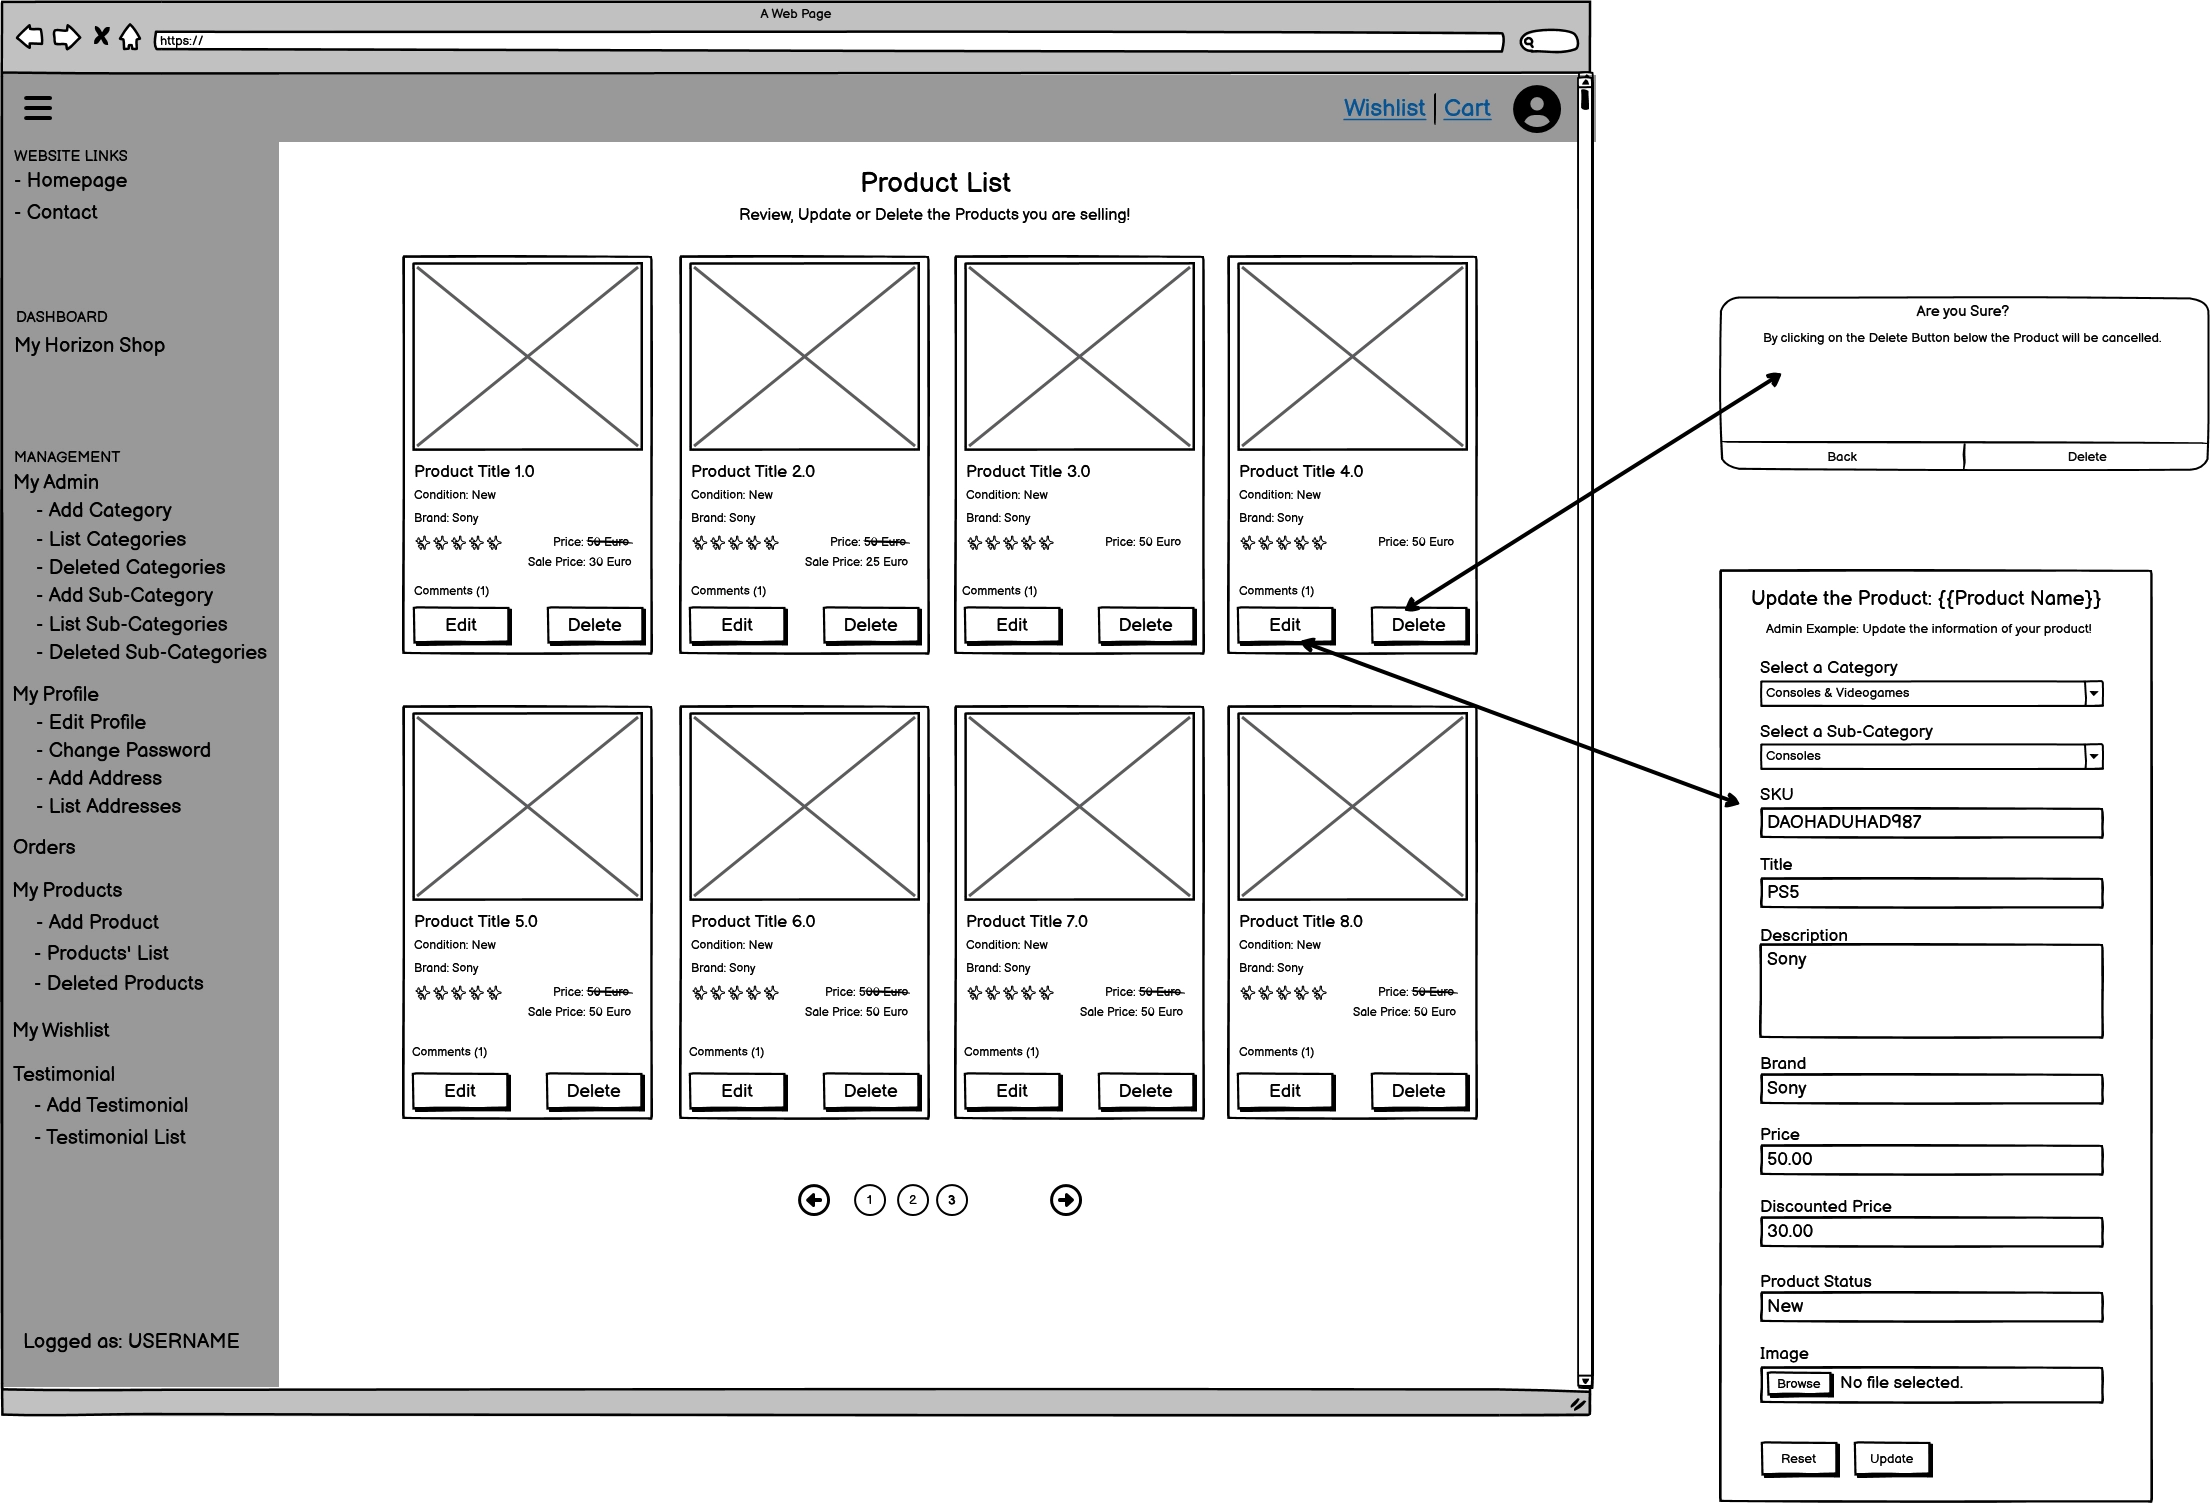
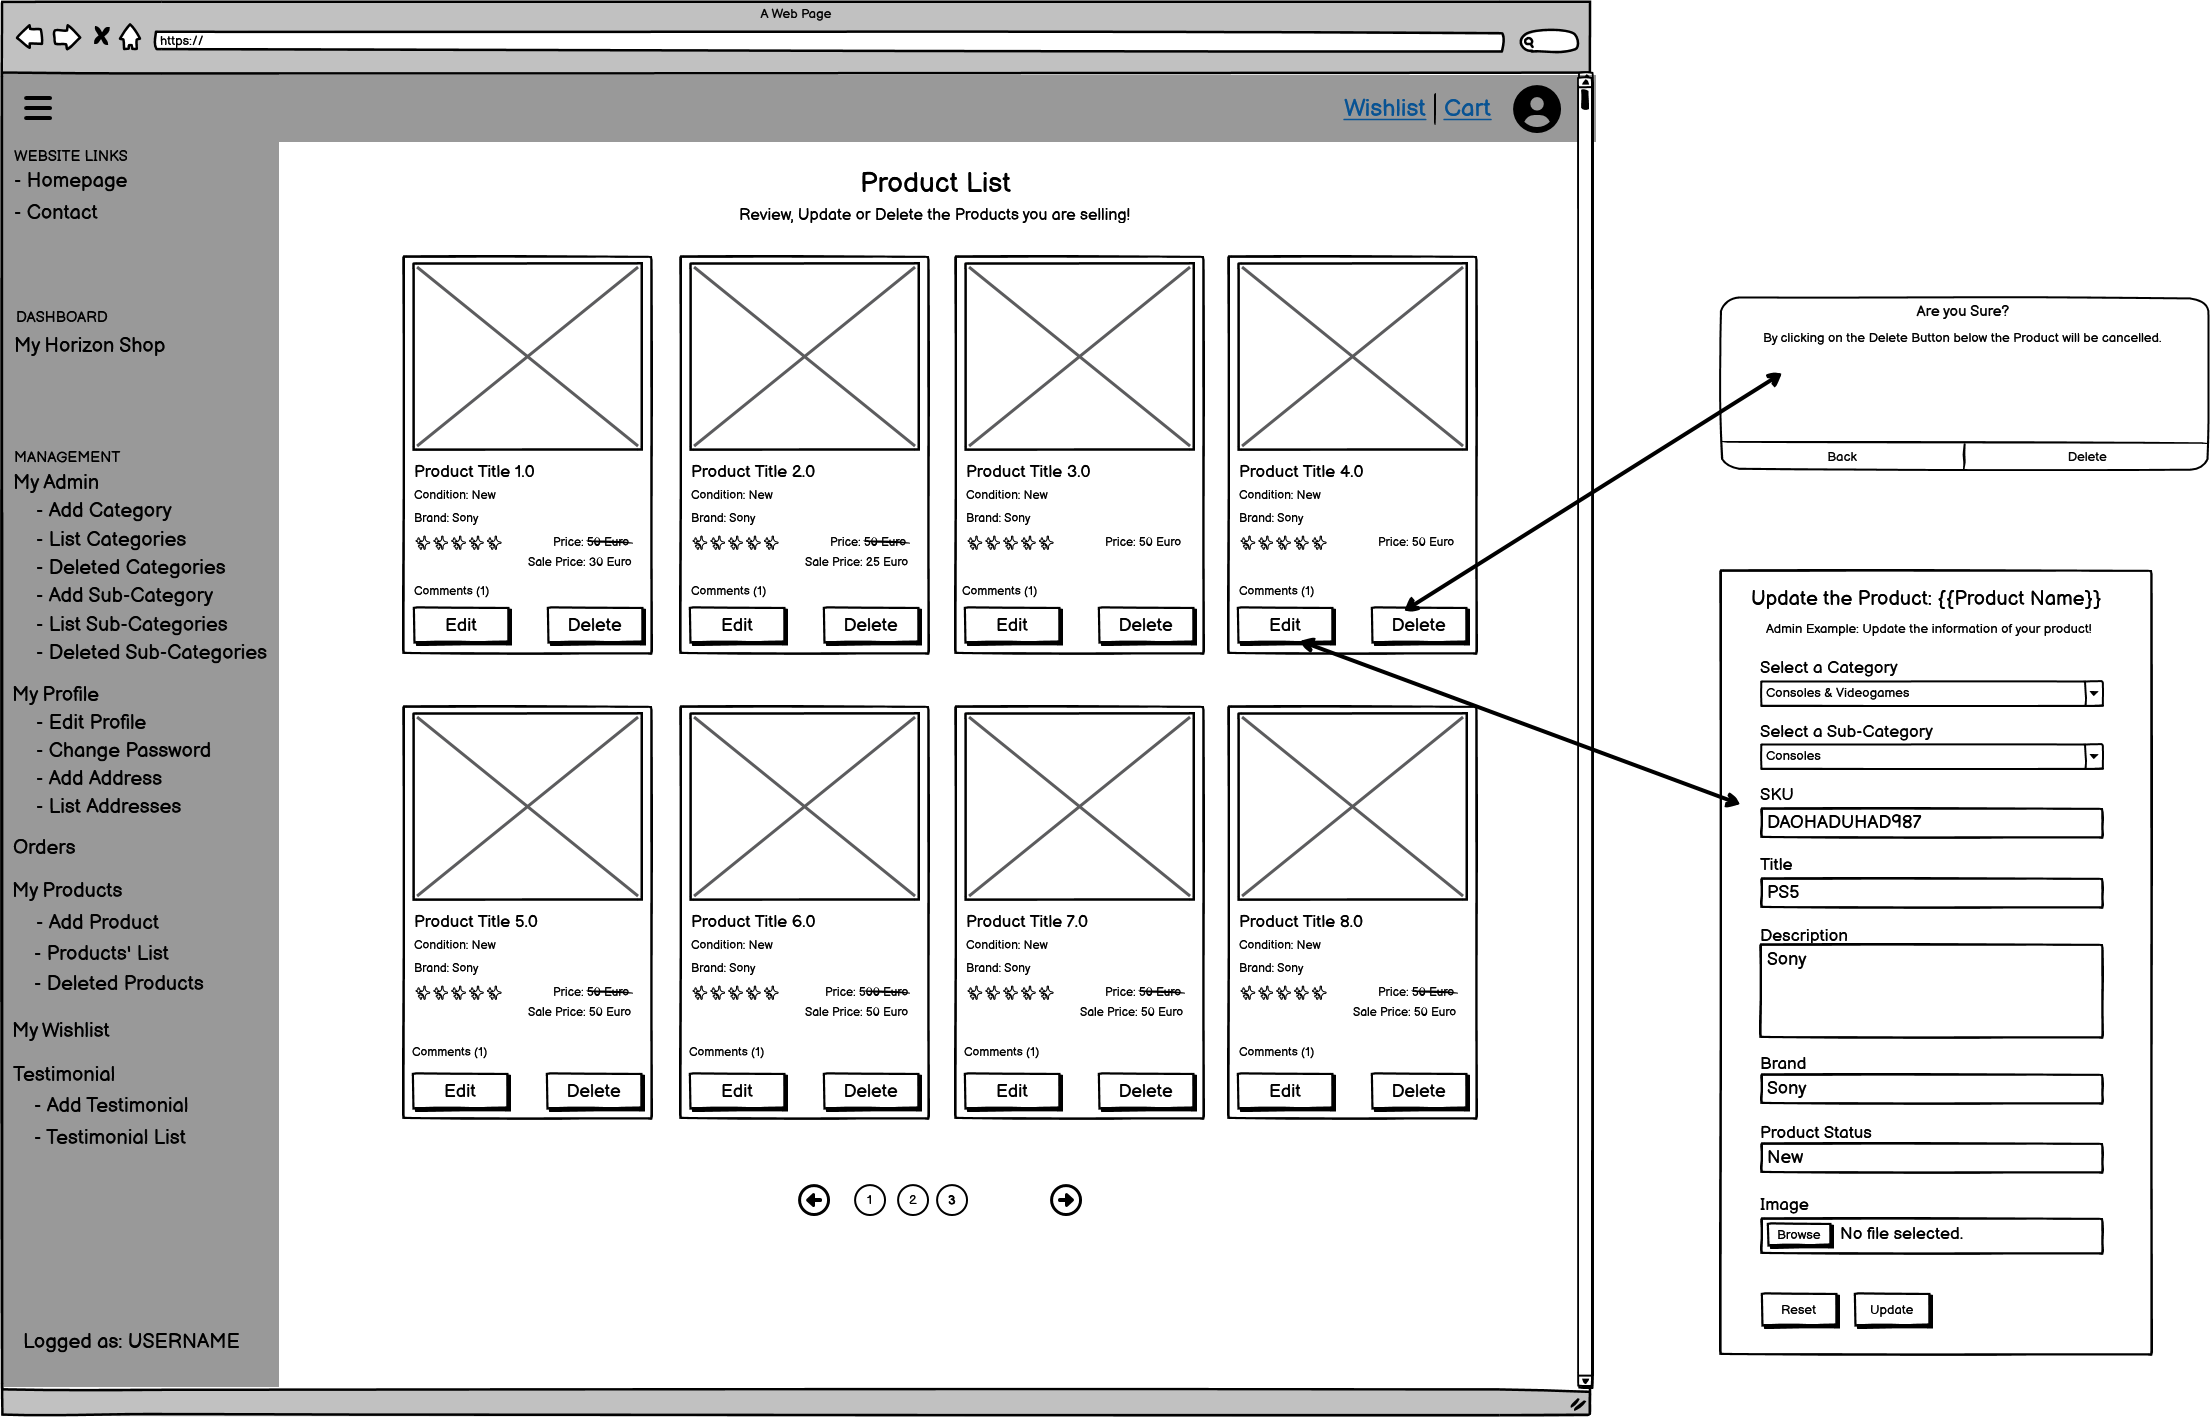
fix: Fix Delivery Cost and Minor Issues

diff --git a/dashboard/templates/dashboard/products/order-details.html b/dashboard/templates/dashboard/products/order-details.html
@@ -180,6 +180,7 @@
                                                                 <th>Name</th>
                                                                 <th>Condition</th>
                                                                 <th>Quantity</th>
+                                                                <th>Delivery Cost</th>
                                                                 <th>Final Price</th>
                                                             </tr>
                                                         </thead>
@@ -236,6 +237,15 @@
 
                                                                 <td data-label="Quantity">
                                                                     <div class="card-text">{{ product.quantity }}</div>
+                                                                </td>
+                                                                <td data-label="Delivery">
+                                                                    <div class="card-text">
+                                                                        {% if product.product_price <= 50.01 %}
+                                                                        10.00 Euro
+                                                                        {% else %}
+                                                                        FREE
+                                                                        {% endif %}
+                                                                    </div>
                                                                 </td>
                                                                 <td data-label="Price">
                                                                     <div class="btn-list flex-nowrap">

diff --git a/products_checkout/templates/checkout/payment-success.html b/products_checkout/templates/checkout/payment-success.html
@@ -43,7 +43,7 @@
                         <p>
                             You can review the information relative to all orders by clicking on the button below:
                             <br>
-                            (You can also access always the list of your orders via My Orders Section in the My
+                            (You can always access the list of your orders via My Orders Section in the My
                             Horizon Shop Dashoard!)
                         </p>
 

diff --git a/dashboard/forms.py b/dashboard/forms.py
@@ -147,6 +147,38 @@ class ProductForm(ModelForm):
         }
 
 
+class ProductUpdateForm(ModelForm):
+    """ Form for Products """
+    def __init__(self, *args, **kwargs):
+        super().__init__(*args, **kwargs)
+        self.fields['created_by'].disabled = True
+        self.fields['category'].widget.attrs['autofocus'] = True
+        self.fields[
+            'category'].queryset = Category.objects.filter(
+                is_deleted=False)
+        self.fields[
+            'subcategory'].queryset = SubCategory.objects.filter(
+                is_deleted=False)
+
+    class Meta:
+        model = Product
+
+        fields = ('created_by',
+                  'category',
+                  'subcategory',
+                  'title',
+                  'description',
+                  'brand',
+                  'image'
+                  )
+
+        widgets = {
+                'created_by': forms.HiddenInput(),
+                'image': forms.FileInput(
+                    attrs={'class': 'form-control-file'}),
+        }
+
+
 class ProductAdminForm(ModelForm):
     """ Form for Products """
     def __init__(self, *args, **kwargs):
@@ -172,6 +204,40 @@ class ProductAdminForm(ModelForm):
                   'brand',
                   'price',
                   'discounted_price',
+                  'product_status',
+                  'image'
+                  )
+
+        widgets = {
+                'created_by': forms.HiddenInput(),
+                'image': forms.FileInput(
+                    attrs={'class': 'form-control-file'}),
+        }
+
+
+class ProductUpdateAdminForm(ModelForm):
+    """ Form for Products """
+    def __init__(self, *args, **kwargs):
+        super(ProductUpdateAdminForm, self).__init__(*args, **kwargs)
+        self.fields['created_by'].disabled = True
+        self.fields['category'].widget.attrs['autofocus'] = True
+        self.fields[
+            'category'].queryset = Category.objects.filter(
+                is_deleted=False)
+        self.fields[
+            'subcategory'].queryset = SubCategory.objects.filter(
+                is_deleted=False)
+
+    class Meta:
+        model = Product
+
+        fields = ('created_by',
+                  'category',
+                  'subcategory',
+                  'sku',
+                  'title',
+                  'description',
+                  'brand',
                   'product_status',
                   'image'
                   )

diff --git a/products_checkout/views.py b/products_checkout/views.py
@@ -17,6 +17,9 @@ from horizon_shop.settings import STRIPE_SECRET_KEY
 from horizon_shop.settings import STRIPE_WH_SECRET
 from horizon_shop.settings import STRIPE_CURRENCY
 
+from horizon_shop.settings import DELIVERY_COST
+from horizon_shop.settings import FREE_DELIVERY_THRESHOLD
+
 from django.shortcuts import render
 from django.shortcuts import reverse
 from django.shortcuts import redirect
@@ -42,6 +45,9 @@ from products_cart.models import CartProducts
 
 from products_cart.forms import CheckoutForm
 
+# from products_cart.context_processors import DELIVERY_COST
+# from products_cart.context_processors import FREE_DELIVERY_THRESHOLD
+
 
 class CheckoutView(LoginRequired, View):
     """
@@ -60,6 +66,7 @@ class CheckoutView(LoginRequired, View):
 
         if order.shipping_address:
             total_order = order.total_price()
+
             total_stripe = round(total_order * 100)
             stripe.api_key = stripe_secret_key
             intent = stripe.PaymentIntent.create(
@@ -98,7 +105,9 @@ class CheckoutView(LoginRequired, View):
             order.shipping_address = ShippingAddress.objects.get(
                 created_by=request.user, id=shipping_address_id
                 )
-            order.total_price = request.POST.get('total_price_cart')
+            order.total_price = order.total_price()
+            if order.total_price < FREE_DELIVERY_THRESHOLD:
+                order.total_price += DELIVERY_COST
             order.save()
 
             return HttpResponseRedirect(reverse('checkout'))
@@ -138,9 +147,12 @@ def stripe_webhook(request):
         intent = event['data']['object']
 
         customer_email = intent['receipt_email']
+        amount = intent['amount']
 
         order_id = intent["metadata"]["order_id"]
         order = Order.objects.get(id=order_id)
+        order.total_price = amount / 100
+        order.save()
 
         try:
             send_mail(
@@ -158,7 +170,7 @@ def stripe_webhook(request):
         except SMTPException as e:
             print('There was an error sending an email: ', e)
 
-        PaymentSuccess(request, order_id)
+        PaymentSuccess(request, order_id, )
 
     elif event['type'] == 'charge.failed':
         intent = event['data']['object']
@@ -173,7 +185,7 @@ def stripe_webhook(request):
     return HttpResponse(status=200, )
 
 
-def PaymentSuccess(request, order_id):
+def PaymentSuccess(request, order_id,):
     """
     Payment Success
     """

diff --git a/dashboard/views.py b/dashboard/views.py
@@ -41,7 +41,9 @@ from .forms import CustomerExtraForm
 from .forms import ShippingAddressForm
 from .forms import TestimonialForm
 from .forms import ProductForm
+from .forms import ProductUpdateForm
 from .forms import ProductAdminForm
+from .forms import ProductUpdateAdminForm
 from .forms import CategoryForm
 from .forms import SubCategoryForm
 
@@ -313,12 +315,12 @@ class ProductUpdateView(SuccessMessageMixin, UpdateView):
     success_message = "Product updated successfully!"
 
     def get_form_class(self):
-        form_class = ProductAdminForm
+        form_class = ProductUpdateAdminForm
 
         if self.request.user.is_superuser:
-            form_class = ProductAdminForm
+            form_class = ProductUpdateAdminForm
         else:
-            form_class = ProductForm
+            form_class = ProductUpdateForm
 
         return form_class
 

diff --git a/products_cart/context_processors.py b/products_cart/context_processors.py
@@ -3,8 +3,8 @@ from django.shortcuts import get_object_or_404
 from .models import CartProducts
 from products_checkout.models import Order
 
-DELIVERY_COST = 10
-FREE_DELIVERY_THRESHOLD = 60
+from horizon_shop.settings import DELIVERY_COST
+from horizon_shop.settings import FREE_DELIVERY_THRESHOLD
 
 
 def cart_contents(request):
@@ -24,8 +24,7 @@ def cart_contents(request):
             total_price_cart = order.total_price()
 
         if total_price_cart < FREE_DELIVERY_THRESHOLD:
-            delivery = total_products_cart * DELIVERY_COST
-            total_price_cart = total_price_cart + delivery
+            delivery = DELIVERY_COST
 
     return {
         'total_products_cart': total_products_cart,

diff --git a/products_checkout/models.py b/products_checkout/models.py
@@ -8,6 +8,9 @@ from dashboard.models import ShippingAddress
 
 from products_cart.models import CartProducts
 
+from horizon_shop.settings import DELIVERY_COST
+from horizon_shop.settings import FREE_DELIVERY_THRESHOLD
+
 
 class Order(models.Model):
     order_number = models.CharField(
@@ -78,6 +81,8 @@ class Order(models.Model):
         order_total_price = 0
         for item in self.cart_products.all():
             order_total_price += item.product_price()
+            if order_total_price < FREE_DELIVERY_THRESHOLD:
+                order_total_price += DELIVERY_COST
         return order_total_price
 
     def quantity_products(self):

diff --git a/horizon_shop/settings.py b/horizon_shop/settings.py
@@ -275,3 +275,8 @@ STRIPE_CURRENCY = 'eur'
 STRIPE_PUBLIC_KEY = os.environ.get('STRIPE_PUBLIC_KEY')
 STRIPE_SECRET_KEY = os.environ.get('STRIPE_SECRET_KEY')
 STRIPE_WH_SECRET = os.environ.get('STRIPE_WH_SECRET')
+
+
+# Delivery Information
+DELIVERY_COST = 10
+FREE_DELIVERY_THRESHOLD = 50.01

diff --git a/TESTING.md b/TESTING.md
@@ -1040,6 +1040,7 @@ All the Tests, icluding Layout Testing have been performed in all Devices.
 | My Products | Product List | Make sure that after confirmation the user is redirected to the Product List and a message confirm the deletion is displayed. | Pass |
 | My Products | Product List | Make sure that an Edit Button is displayed. | Pass |
 | My Products | Product List | Make sure that by clicking on the Edit Button the user can update the information of a product. | Pass |
+| My Products | Product List | Make sure that by clicking on the Edit Button the user (both Admin and Customers) are not able to edit the products' prices. | Pass |
 | My Products | Product List | Make sure that every page is responsive and that no overlaps are present. | Pass |
 | My Wishlist |  Wishlist    | Make sure that by clicking My Wishlist Section the user is able to access his/her own personal wishlist. | Pass |
 | My Wishlist |  Wishlist    | Make sure that the authenticated users can see the list of products in cards and no overlaps are present. | Pass |
@@ -1094,6 +1095,9 @@ Additional tests include checks on different devices using the Toggle Device Emu
 
 ### **Future Implementation**
 A million of additional features are ready to be implemented in the future to offer a better user experience and better services thorough the Horizon Shop website. Unfortunately, due to time constraints not all the desired features have been implemented. Example of those are listed below and will be implemented in future releases:
+
+- Update Prices existing Products: 
+In future releases users (both admin users and customers) should be able to update the price of the items they want to sell. Specifically, if a selling items is considered too expensive by other customers, the seller should be able to decrease the price (if he/she wishes to do so) without compromising any other existing orders on the website. 
 
 - Out of Stock Functionality: 
 The Out of Stock Functionality will indicate when a product is out of stock, to do this the quantity of each item needs to be included. If the requested quantity is larger than the available products, a message will inform the customer that that particular item is out of stock. This will be implemented for new and used products, with selling customers able to indicate the quantity they want to sell.

diff --git a/README.md b/README.md
@@ -851,7 +851,6 @@ Users should be willing to register to the website.
 </details>
 
 
-
 ---
 
 ## **Design**
